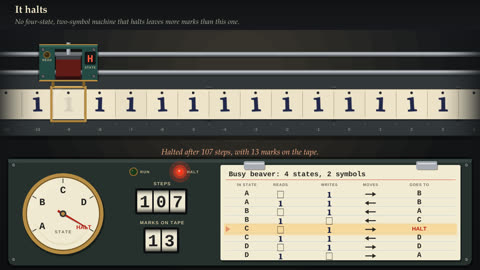
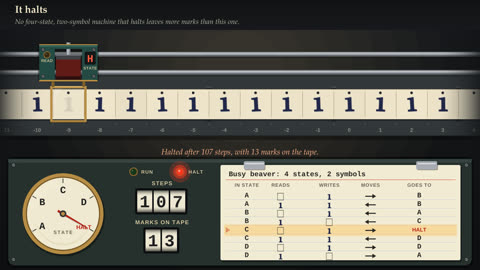
Turing: larger labels, tails read from the parameters
The card's column heads, the counter and lamp labels, the carriage's
READ and STATE and the bed's scale were 9 to 13 units: too small for the
GIF and the still. The host reads each machine's /Tail from its
parameters instead of repeating it. The still is the one
scripts/build_gallery.sh makes.

Claude-Session: https://claude.ai/code/session_016y8NtS54T7kWRpmosiW6yL

diff --git a/gallery/turing/README.md b/gallery/turing/README.md
@@ -63,12 +63,13 @@ never halts.
   So at full speed they compress together.
 - **The camera is a dead zone, worked out in setup, then averaged.** For
   each step, the camera moves only if the head would leave the middle of
-  the frame. A frame averages that track over sixteen moments either side
-  of its own time. The average looks ahead as far as it looks back, so it
-  does not lag, and a fast run becomes a steady pan rather than one jerk
-  per cell.
+  the frame. A frame averages that track at sixteen moments spread over
+  0.36 s, centred on its own time. The average looks ahead as far as it
+  looks back, so it does not lag, and a fast run becomes a steady pan
+  rather than one jerk per cell.
 - **The rows fade like warm bulbs.** A row lights as its step begins, and
-  the rows used before it fade out over about a tenth of a second. In the
+  the rows used before it fade out exponentially, with a time constant of
+  0.13 s. In the
   fast stretch the card therefore shows the last few rules, not a
   highlight jumping every four frames, which `check --all` would report as
   a pop.
